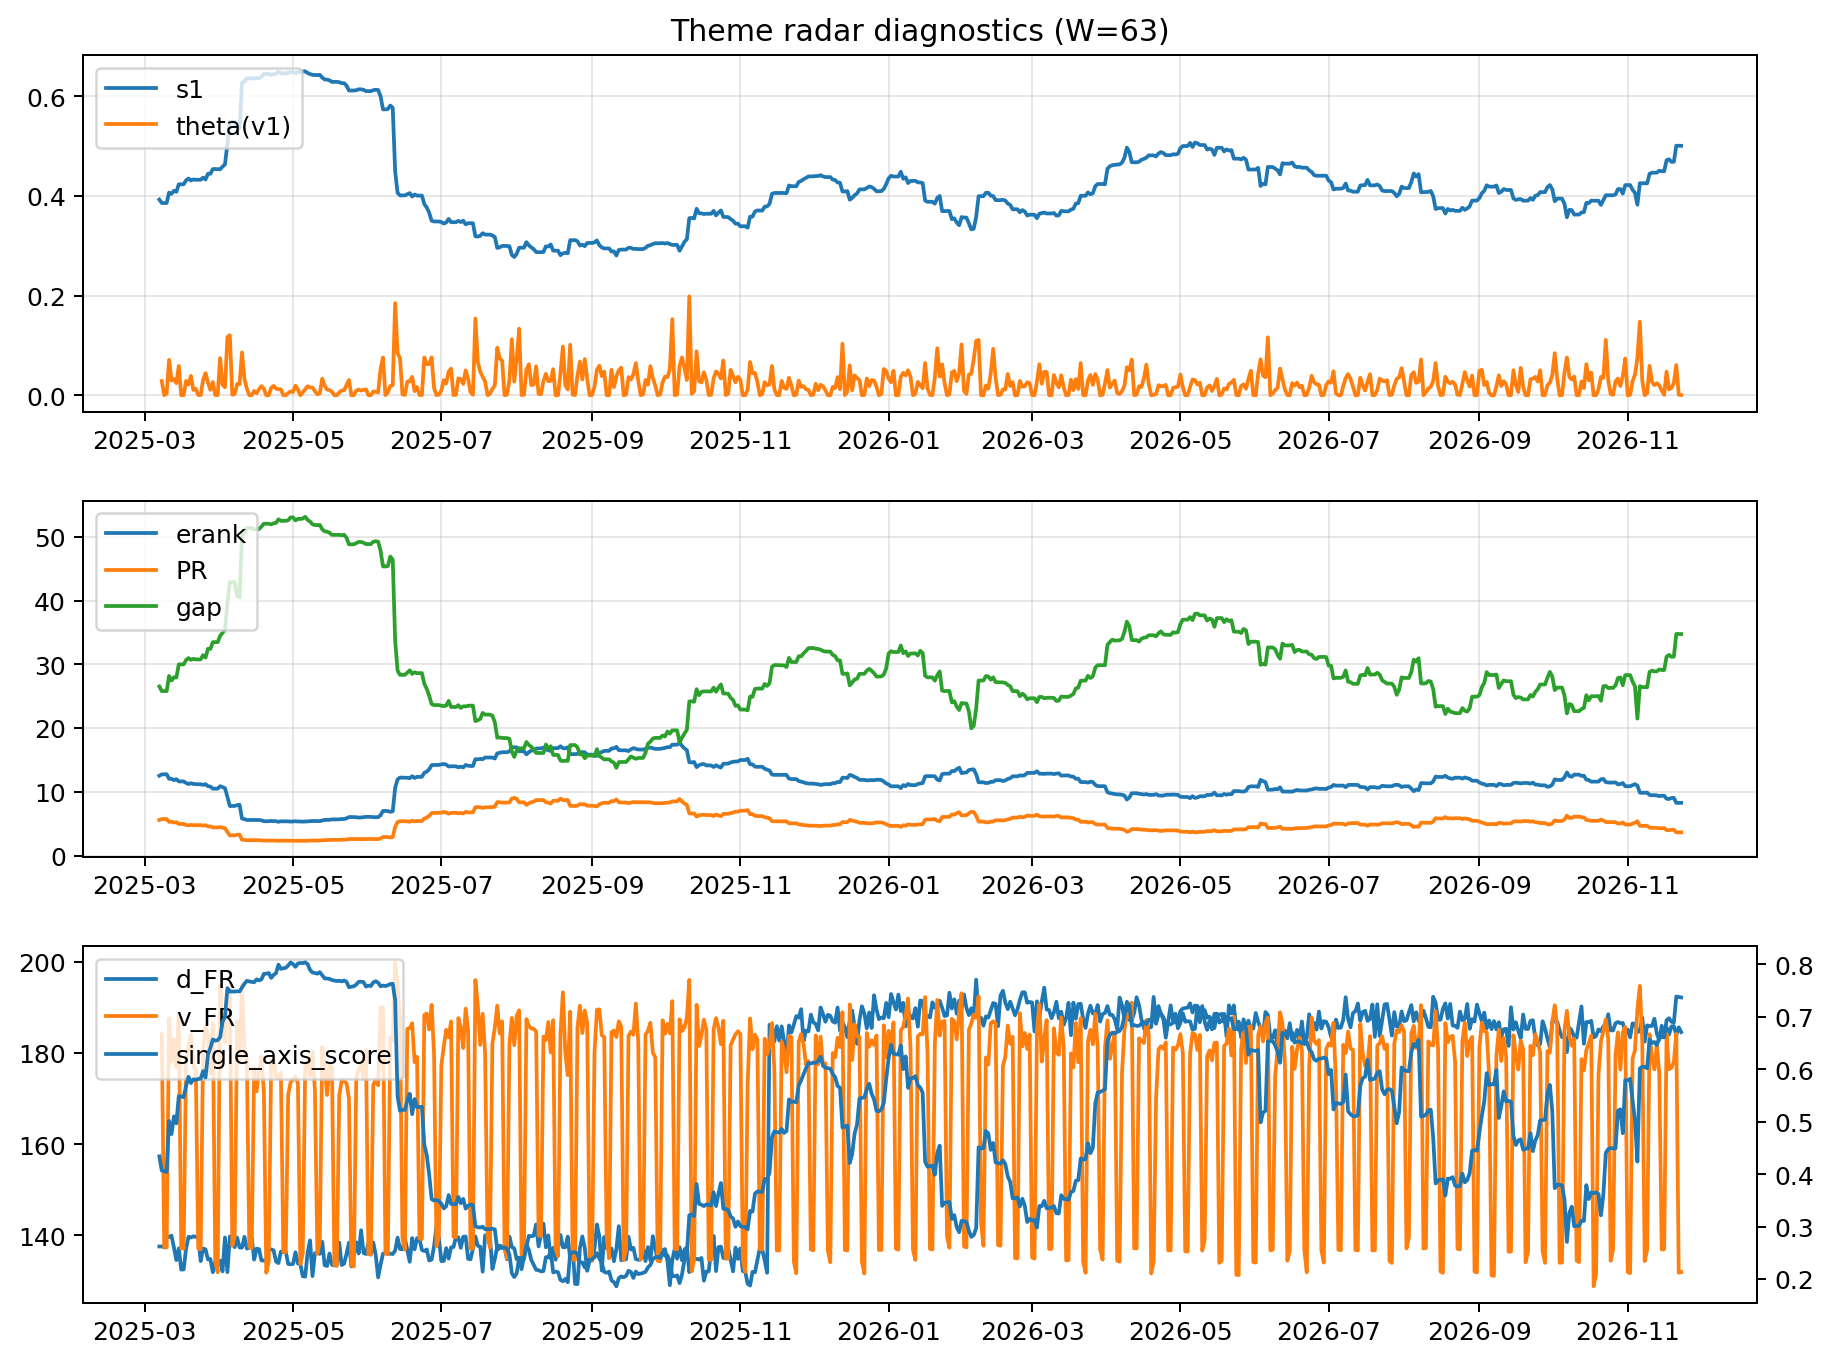
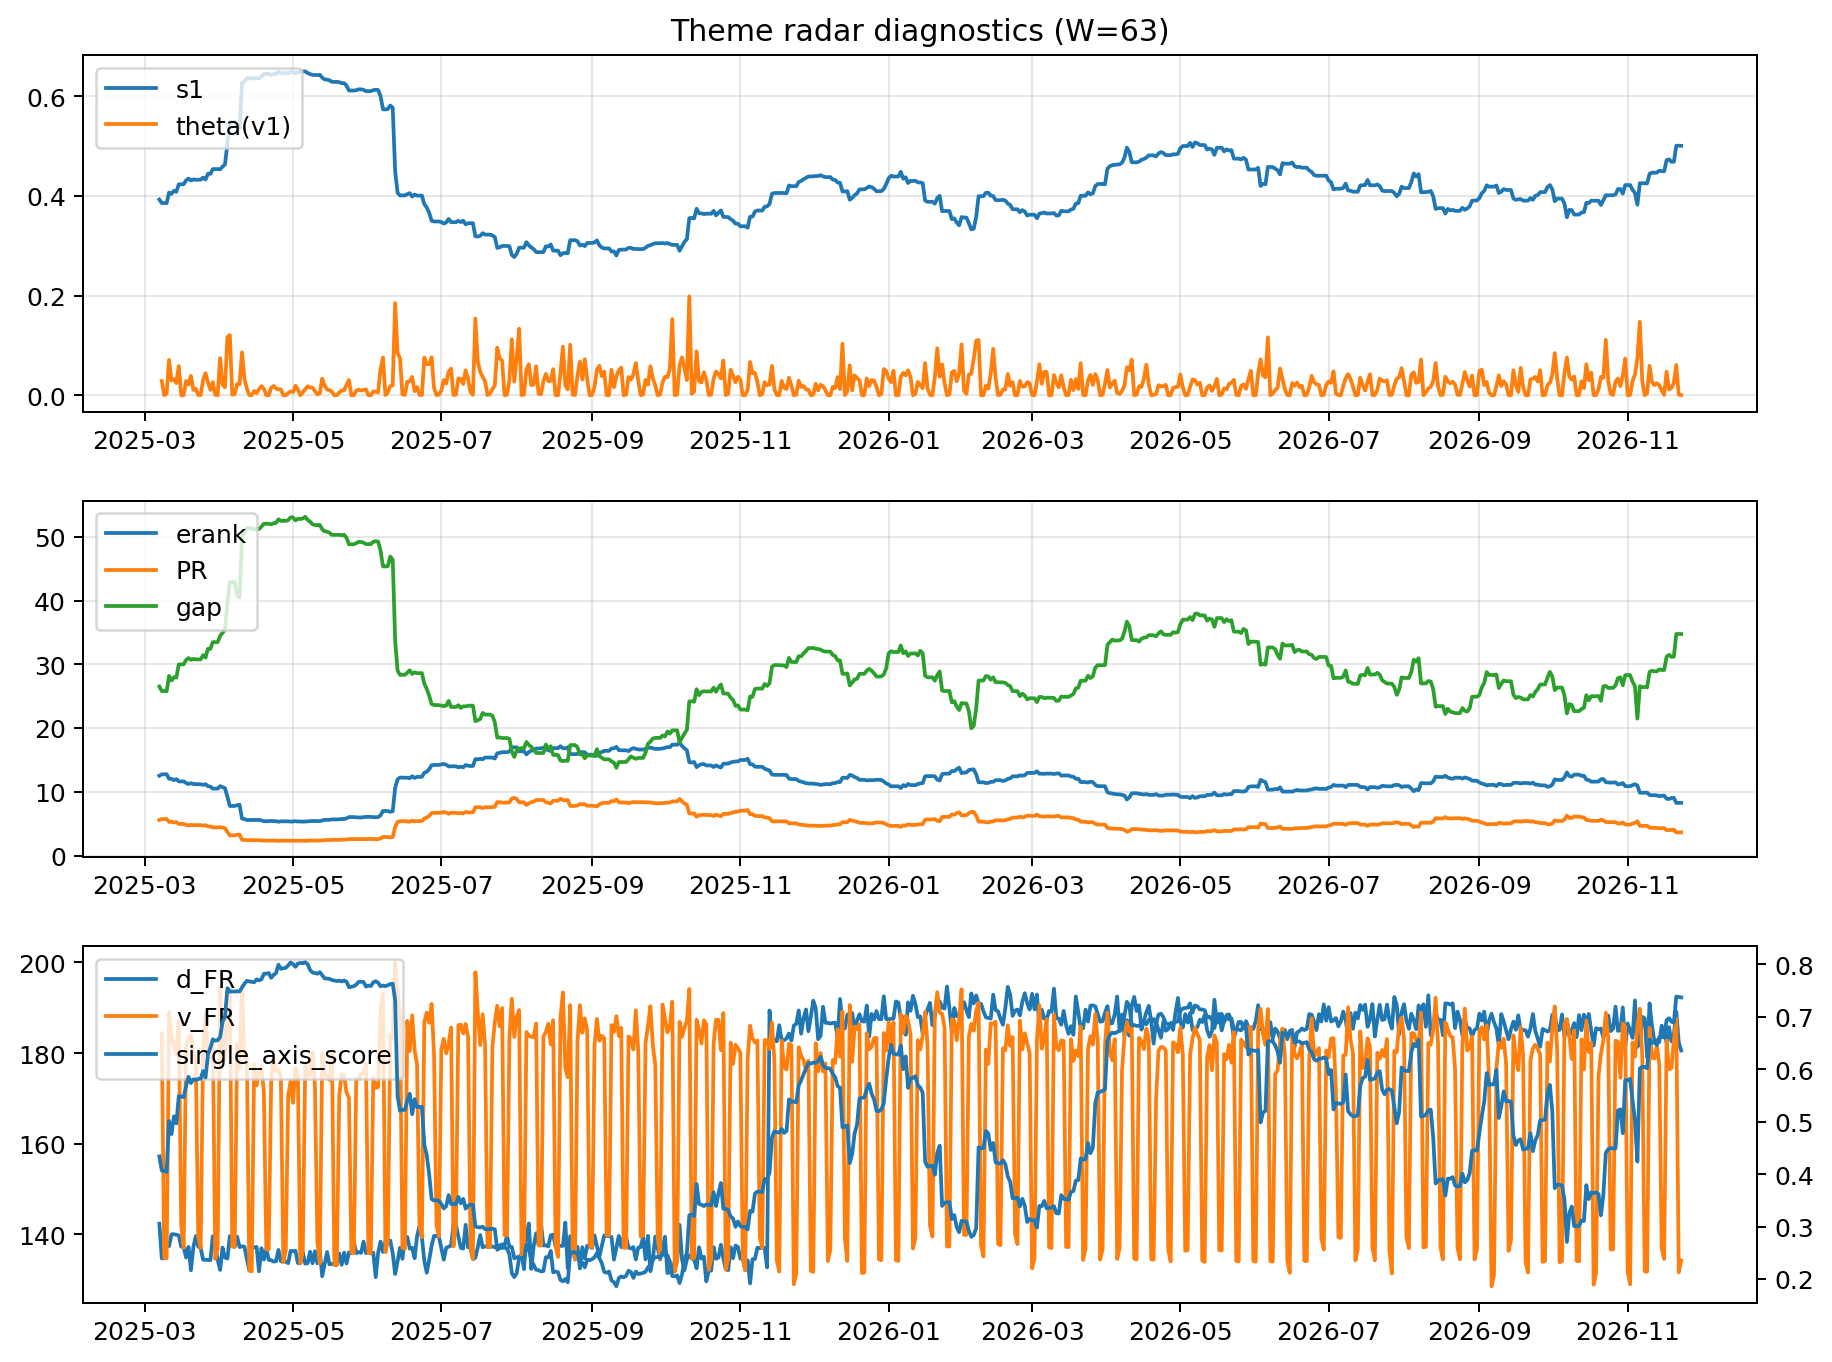
log: 2026-11-23 | sha256:c6ce07b0680962abeb731c7d18aa7b2cf270421e758beed9af3bb0bef42e5ead

diff --git a/logs/2026-11-23.md b/logs/2026-11-23.md
@@ -3,43 +3,43 @@
 ![diagnostic W63](../assets/diagnostic/2026-11-23_W63.png)
 
 ## Leaders (v1) — W=63
-- **Nuclear_Uranium** (0.0807124401028187)
-- Semis (0.0714904513832999)
-- Space (0.0564786962019232)
+- **Nuclear_Uranium** (0.0807124328503663)
+- Semis (0.0714904490117677)
+- Space (0.0564786922298279)
 
 ## Challengers — W=63
-**v2:** Rates (0.09783878735564), Metals (0.0772178188854948), Semis (0.0632978662190374)
-**v3:** Rates (0.1063383721433333), MegaCap_AI (0.0896153314364431), Nuclear_Uranium (0.0784636001826342)
+**v2:** Rates (0.0978386413624823), Metals (0.0772178383572859), Semis (0.0632978932634348)
+**v3:** Rates (0.1063384922330319), MegaCap_AI (0.0896153217870572), Nuclear_Uranium (0.078463624765454)
 
 ## Migration (20D slope) — W=63
 **Top risers:**
-- axis_Drones_Autonomy: 0.0004686033397154
-- axis_Rates: 0.0004446356246318
-- axis_Software_Cloud: 0.0003980098309582
-- axis_Cyber: 0.0003465259904427
-- axis_Defense: 0.0003006782570307
-- axis_Sector_Materials: 0.0002208034790599
-- axis_Sector_Comm: 0.0002088751851154
-- axis_Sector_Fin: 0.0001808912259158
-- axis_Sector_Health: 0.0001655875310561
-- axis_MegaCap_AI: 8.44395785045505e-05
+- axis_Drones_Autonomy: 0.0004686032759342
+- axis_Rates: 0.0004446395292214
+- axis_Software_Cloud: 0.0003980096748447
+- axis_Cyber: 0.0003465260028266
+- axis_Defense: 0.0003006781134451
+- axis_Sector_Materials: 0.0002208032223473
+- axis_Sector_Comm: 0.0002088751025505
+- axis_Sector_Fin: 0.0001808909850867
+- axis_Sector_Health: 0.0001655875007603
+- axis_MegaCap_AI: 8.443957718235377e-05
 
 **Top fallers:**
-- axis_Equity_US: -0.0001463227808963
-- axis_DataCenter_Infra: -0.0001469205772122
-- axis_Space: -0.0001636849190357
-- axis_Credit: -0.0001797580131583
-- axis_Sector_Energy: -0.0002091617735448
-- axis_Sector_ConsStap: -0.0002204897435222
-- axis_Metals: -0.0002426167815031
-- axis_Quantum: -0.0002671106490984
-- axis_Commodities: -0.0003007856589803
-- axis_Semis: -0.0003064460840839
+- axis_Equity_US: -0.0001463228880753
+- axis_DataCenter_Infra: -0.000146920612755
+- axis_Space: -0.0001636846822677
+- axis_Credit: -0.0001797593978225
+- axis_Sector_Energy: -0.0002091618151556
+- axis_Sector_ConsStap: -0.0002204894749299
+- axis_Metals: -0.0002426171977994
+- axis_Quantum: -0.0002671106922488
+- axis_Commodities: -0.0003007857780838
+- axis_Semis: -0.0003064453488698
 
 ## Risk line (W=63)
-- s1: 0.5004678601119238
-- theta_v1: 0.0004377876621959
-- v_FR: 131.92747800238132
+- s1: 0.5004678940980666
+- theta_v1: 0.0004377875911883
+- v_FR: 134.2620181320643
 - single_axis_score: 0.7365231259968101
 
 ## Interpretation
@@ -48,7 +48,7 @@
 - Action: Tomorrow watchlist: Drones_Autonomy, Rates, Software_Cloud, Cyber, Defense + v2_top1=Rates
 - Action: Hedge note: normal correlation stability.
 
-- Percentiles (W=63 history): vfr_pct=0.03, theta_pct=0.16, s1_pct=0.88, score_pct=0.89.
+- Percentiles (W=63 history): vfr_pct=0.09, theta_pct=0.16, s1_pct=0.88, score_pct=0.89.
 
 ---
[2 lines of base64/hex data omitted]
